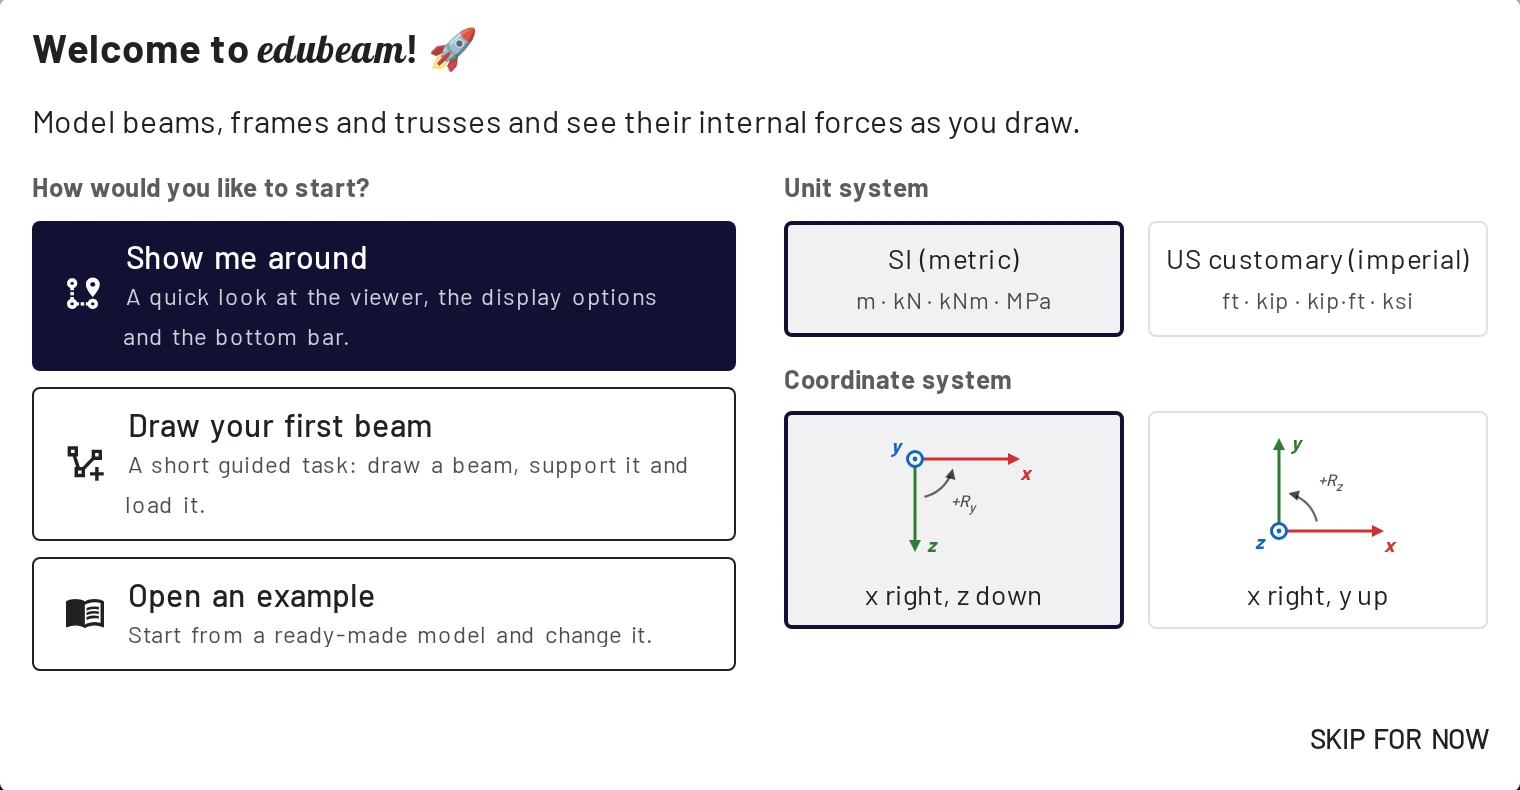
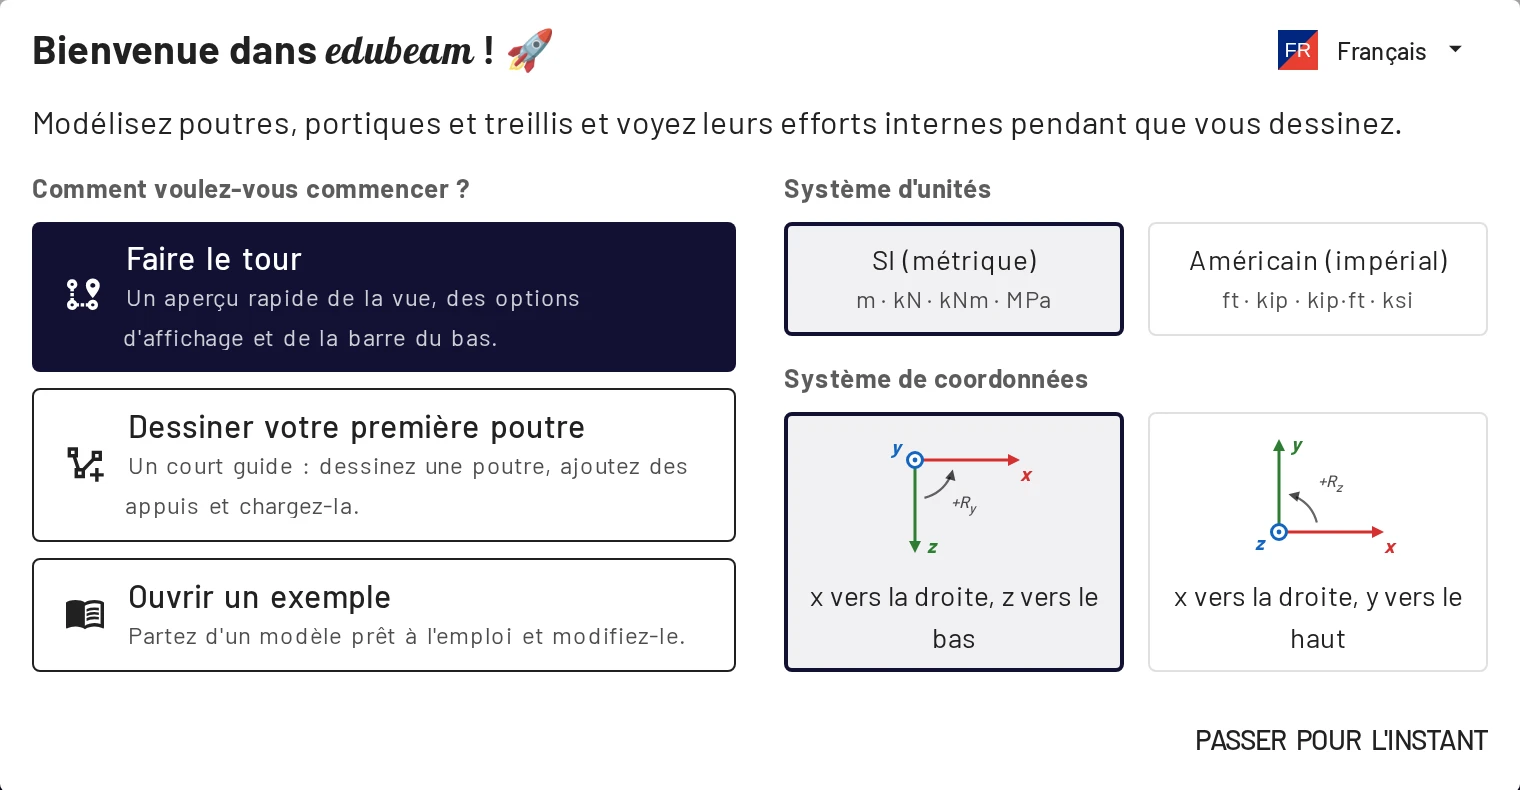
feat: pick the language in the welcome dialog
The welcome dialog is the first thing a new visitor reads, and the language it is in came from the
browser, with the only way to change it in the settings behind it. Its title row now carries the
language in use - its badge and its own name - and opens a menu of every language under its own
name, so someone who landed in one they cannot read still finds theirs. The badges move to a module
of their own, shared with the settings.

The welcome screenshot in the docs is shot on a first visit, which takes the language from the
browser, and the screenshot browser was English: every translation showed the English dialog. Each
shot now runs in a browser of the language it is for.

diff --git a/src/components/settings/LanguageMenu.vue b/src/components/settings/LanguageMenu.vue
@@ -1,0 +1,74 @@
+<script lang="ts" setup>
+import { computed } from 'vue';
+import { useAppStore } from '@/store/app';
+import { availableLocales, languageTag } from '@/plugins/i18n';
+import { languageFlags } from '@/utils/languageFlags';
+
+/**
+ * The app's language, picked from a compact menu. Each language is listed under its own name, so
+ * someone who landed in a language they cannot read still finds theirs.
+ */
+const appStore = useAppStore();
+
+const current = computed(() => availableLocales.find((l) => l.code === appStore.locale) ?? availableLocales[0]);
+</script>
+
+<template>
+  <v-menu location="bottom end">
+    <template #activator="{ props }">
+      <v-btn
+        v-bind="props"
+        class="language-menu"
+        variant="text"
+        size="small"
+        append-icon="mdi-menu-down"
+        :aria-label="`${$t('settings.language')}: ${current.name}`"
+      >
+        <img :src="languageFlags[current.code]" class="language-menu__flag language-menu__flag--current" alt="" />
+        <span :lang="languageTag(current.code)">{{ current.name }}</span>
+      </v-btn>
+    </template>
+
+    <v-list density="compact" class="language-menu__list" :selected="[appStore.locale]" mandatory color="primary">
+      <v-list-item
+        v-for="language in availableLocales"
+        :key="language.code"
+        :value="language.code"
+        :lang="languageTag(language.code)"
+        :active="language.code === appStore.locale"
+        @click="appStore.locale = language.code"
+      >
+        <template #prepend>
+          <img :src="languageFlags[language.code]" class="language-menu__flag" alt="" />
+        </template>
+        <v-list-item-title>{{ language.name }}</v-list-item-title>
+      </v-list-item>
+    </v-list>
+  </v-menu>
+</template>
+
+<style scoped>
+/* A setting, not an action: plain text, in the case it is written in. */
+.language-menu {
+  text-transform: none;
+  letter-spacing: normal;
+  font-weight: 500;
+}
+
+.language-menu__list {
+  max-height: min(420px, 70dvh);
+}
+
+.language-menu__flag {
+  width: 22px;
+  height: 22px;
+  margin-right: 12px;
+}
+
+/* The badges are language codes in flag colours, so the one in use names the language at a glance. */
+.language-menu__flag--current {
+  width: 20px;
+  height: 20px;
+  margin-right: 8px;
+}
+</style>

diff --git a/src/components/settings/LanguageUnits.vue b/src/components/settings/LanguageUnits.vue
@@ -20,7 +20,7 @@
             <!-- Each name in its own language, or the browser shapes हिन्दी with the page's font fallback. -->
             <v-list-item v-bind="props" color="primary" :lang="languageTag(item.raw.code)">
               <template #prepend>
-                <img :src="getImageUrl(item.raw.code)" class="mr-3" height="24" />
+                <img :src="languageFlags[item.raw.code]" class="mr-3" height="24" alt="" />
               </template>
             </v-list-item>
           </template>
@@ -163,53 +163,11 @@ import AxisConventionPicker from './AxisConventionPicker.vue';
 
 const appStore = useAppStore();
 
-import English from 'language-icons/icons/en.svg';
-import Czech from 'language-icons/icons/cs.svg';
-import German from 'language-icons/icons/de.svg';
-import Spanish from 'language-icons/icons/es.svg';
-import French from 'language-icons/icons/fr.svg';
-import Portuguese from 'language-icons/icons/pt.svg';
-import Chinese from 'language-icons/icons/zh.svg';
-import Polish from 'language-icons/icons/pl.svg';
-import Ukrainian from 'language-icons/icons/uk.svg';
-import Russian from 'language-icons/icons/ru.svg';
-import Turkish from 'language-icons/icons/tr.svg';
-import Hindi from 'language-icons/icons/hi.svg';
-import Vietnamese from 'language-icons/icons/vi.svg';
-import Italian from 'language-icons/icons/it.svg';
-import Indonesian from 'language-icons/icons/id.svg';
-import Japanese from 'language-icons/icons/ja.svg';
-import Korean from 'language-icons/icons/ko.svg';
-import ThaiFlag from '../../assets/th-flag.svg';
+import { languageFlags } from '@/utils/languageFlags';
 import { computed } from 'vue';
 import { momentLabel, unitText, type ForceUnit, type LengthUnit, type TemperatureUnit } from '@/utils/unitConversions';
 import type { UnitSystem } from '@/utils/unitSystems';
 import { useI18n } from 'vue-i18n';
-
-const flags = {
-  en: English,
-  cs: Czech,
-  de: German,
-  es: Spanish,
-  fr: French,
-  pt: Portuguese,
-  cn: Chinese,
-  th: ThaiFlag,
-  pl: Polish,
-  uk: Ukrainian,
-  ru: Russian,
-  tr: Turkish,
-  hi: Hindi,
-  vi: Vietnamese,
-  it: Italian,
-  id: Indonesian,
-  ja: Japanese,
-  ko: Korean,
-};
-
-function getImageUrl(name) {
-  return flags[name];
-}
 
 const { t } = useI18n();
 

diff --git a/src/utils/languageFlags.ts b/src/utils/languageFlags.ts
@@ -1,0 +1,40 @@
+import English from 'language-icons/icons/en.svg';
+import Czech from 'language-icons/icons/cs.svg';
+import German from 'language-icons/icons/de.svg';
+import Spanish from 'language-icons/icons/es.svg';
+import French from 'language-icons/icons/fr.svg';
+import Portuguese from 'language-icons/icons/pt.svg';
+import Chinese from 'language-icons/icons/zh.svg';
+import Polish from 'language-icons/icons/pl.svg';
+import Ukrainian from 'language-icons/icons/uk.svg';
+import Russian from 'language-icons/icons/ru.svg';
+import Turkish from 'language-icons/icons/tr.svg';
+import Hindi from 'language-icons/icons/hi.svg';
+import Vietnamese from 'language-icons/icons/vi.svg';
+import Italian from 'language-icons/icons/it.svg';
+import Indonesian from 'language-icons/icons/id.svg';
+import Japanese from 'language-icons/icons/ja.svg';
+import Korean from 'language-icons/icons/ko.svg';
+import ThaiFlag from '@/assets/th-flag.svg';
+
+/** The icon shown next to each app language, keyed by its locale code. */
+export const languageFlags: Readonly<Record<string, string>> = {
+  en: English,
+  cs: Czech,
+  de: German,
+  es: Spanish,
+  fr: French,
+  pt: Portuguese,
+  cn: Chinese,
+  th: ThaiFlag,
+  pl: Polish,
+  uk: Ukrainian,
+  ru: Russian,
+  tr: Turkish,
+  hi: Hindi,
+  vi: Vietnamese,
+  it: Italian,
+  id: Indonesian,
+  ja: Japanese,
+  ko: Korean,
+};

diff --git a/src/components/dialogs/Welcome.vue b/src/components/dialogs/Welcome.vue
@@ -1,7 +1,11 @@
 <template>
   <v-dialog v-model="open" max-width="760">
     <v-card>
-      <v-card-title><span v-html="$t('welcome.title')"></span></v-card-title>
+      <!-- The language comes first: everything below is read in it. -->
+      <v-card-title class="d-flex align-center flex-wrap ga-2">
+        <span class="mr-auto" v-html="$t('welcome.title')"></span>
+        <LanguageMenu />
+      </v-card-title>
 
       <v-card-text class="pb-2">
         <p class="mb-3">{{ $t('welcome.description') }}</p>
@@ -96,6 +100,7 @@ import { useAppStore } from '../../store/app';
 import { useViewerStore } from '../../store/viewer';
 import { startFirstBeam } from '@/utils/startFirstBeam';
 import AxisConventionPicker from '../settings/AxisConventionPicker.vue';
+import LanguageMenu from '../settings/LanguageMenu.vue';
 import { matchStarterModelToUnits } from '@/utils/matchStarterModel';
 import type { UnitSystem } from '@/utils/unitSystems';
 import { onRadioKeydown, radioTabIndex } from '@/utils/radioGroup';
